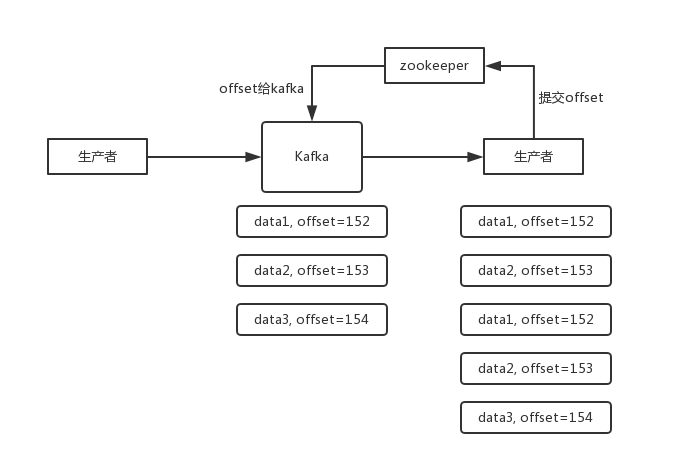
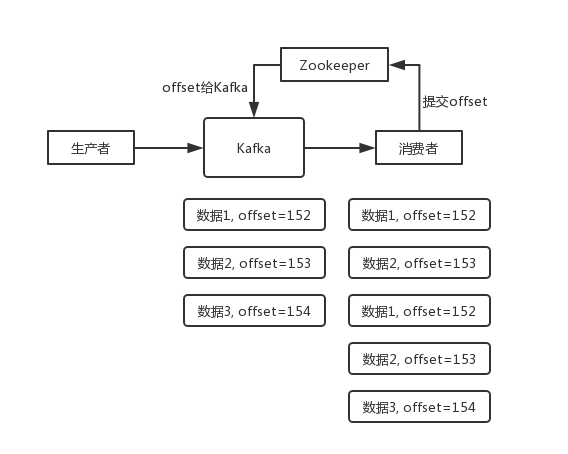
docs: update image of kafka to fix #28
- 修改 Kafka 图片小错误
- 调整图片展示位置

Changed region(s): [[0.0599, 0.0925, 0.8979, 0.6167], [0.2993, 0.6476, 0.8979, 0.9559]]

diff --git a/docs/high-concurrency/how-to-ensure-that-messages-are-not-repeatedly-consumed.md b/docs/high-concurrency/how-to-ensure-that-messages-are-not-repeatedly-consumed.md
@@ -13,14 +13,13 @@ Kafka 实际上有个 offset 的概念，就是每个消息写进去，都有一
 
 但是凡事总有意外，比如我们之前生产经常遇到的，就是你有时候重启系统，看你怎么重启了，如果碰到点着急的，直接 kill 进程了，再重启。这会导致 consumer 有些消息处理了，但是没来得及提交 offset，尴尬了。重启之后，少数消息会再次消费一次。
 
-![mq-10](/images/mq-10.png)
-
 举个栗子。
 
-有这么个场景。数据 1/2/3 依次进入 kafka，kafka 会给这三条数据每条分配一个 offset，代表这条数据的序号，分配的 offset 依次是 152/153/154。消费者从 kafka 去消费的时候，也是按照这个顺序去消费。假如当消费者消费了 `offset=153` 的这条数据，刚准备去提交 offset 到 zookeeper，此时消费者进程被重启了。那么此时消费过的数据 1/2 的 offset 并没有提交，kafka 也就不知道你已经消费了 `offset=153` 这条数据。那么重启之后，消费者会找 kafka 说，嘿，哥儿们，你给我接着把上次我消费到的那个地方后面的数据继续给我传递过来。数据 1/2 再次被消费。
+有这么个场景。数据 1/2/3 依次进入 kafka，kafka 会给这三条数据每条分配一个 offset，代表这条数据的序号，我们就假设分配的 offset 依次是 152/153/154。消费者从 kafka 去消费的时候，也是按照这个顺序去消费。假如当消费者消费了 `offset=153` 的这条数据，刚准备去提交 offset 到 zookeeper，此时消费者进程被重启了。那么此时消费过的数据 1/2 的 offset 并没有提交，kafka 也就不知道你已经消费了 `offset=153` 这条数据。那么重启之后，消费者会找 kafka 说，嘿，哥儿们，你给我接着把上次我消费到的那个地方后面的数据继续给我传递过来。由于之前的 offset 没有提交成功，那么数据 1/2 会再次传过来，如果此时消费者没有去重的话，那么就会导致重复消费。
+
+![mq-10](/images/mq-10.png)
 
 如果消费者干的事儿是拿一条数据就往数据库里写一条，会导致说，你可能就把数据 1/2 在数据库里插入了 2 次，那么数据就错啦。
-
 
 其实重复消费不可怕，可怕的是你没考虑到重复消费之后，**怎么保证幂等性**。
 
